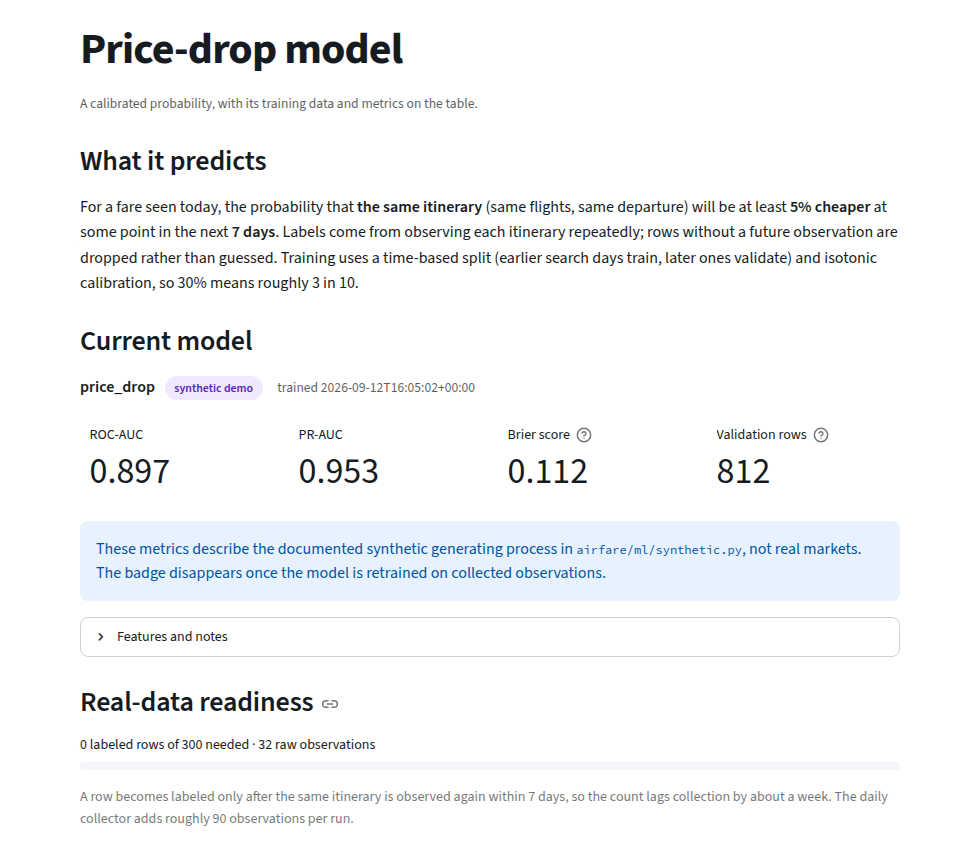
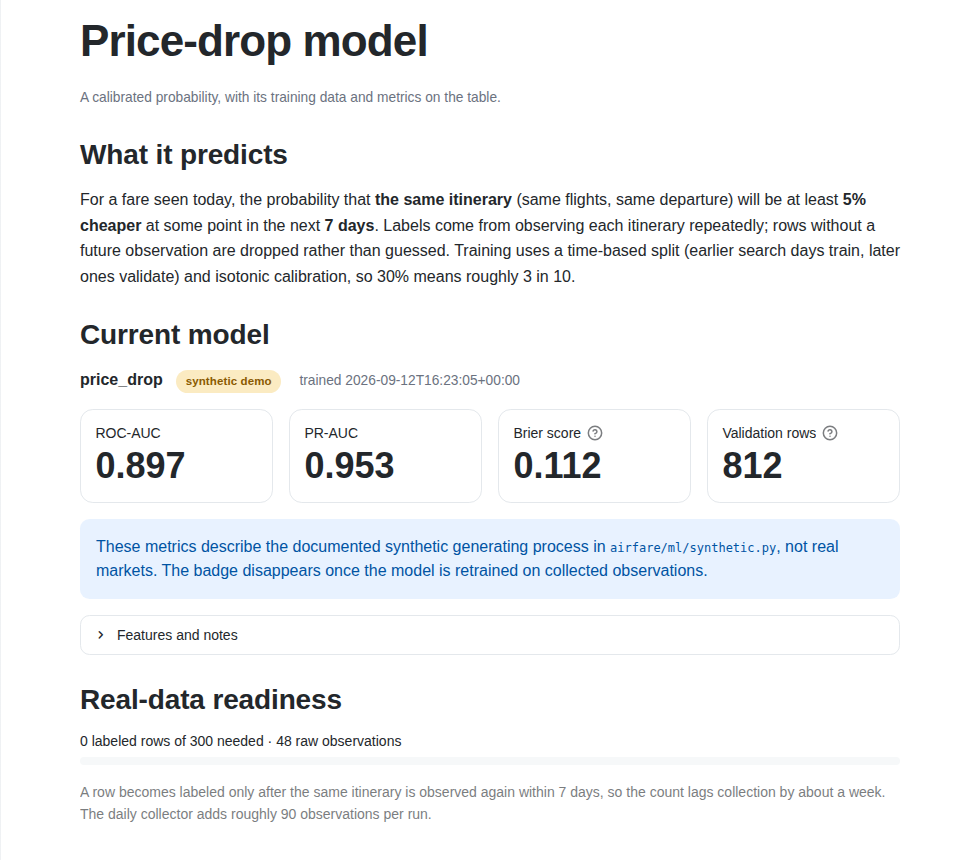
Theme pass: Lato, teal/gold palette, hero, hexagon mark
Streamlit theme config (custom font faces, primary teal, radius, borders),
hero block on Search with a hexagon motif, chips and charts moved to the
teal/gold palette, metric cards, refreshed README screenshots.

diff --git a/airfare/ui/components.py b/airfare/ui/components.py
@@ -11,37 +11,65 @@ import streamlit as st
 from airfare.domain.models import Itinerary, ScoredOffer
 from airfare.ui import format as fmt
 
-CSS = """
+TEAL = "#1A7F8E"
+TEAL_DARK = "#146673"
+GOLD = "#F2B233"
+GOLD_SOFT = "#FBEBC2"
+INK = "#23272B"
+SLATE = "#6B7280"
+LINE = "#E4E8EC"
+
+CSS = f"""
 <style>
-  .block-container { padding-top: 1.6rem; padding-bottom: 3rem; max-width: 1180px; }
-  h1 { letter-spacing: -0.02em; }
-  .afm-eyebrow { font-size: .78rem; text-transform: uppercase; letter-spacing: .08em; opacity: .65; }
-  .afm-price { font-size: 1.75rem; font-weight: 700; line-height: 1.1; }
-  .afm-muted { opacity: .7; font-size: .85rem; }
-  .afm-chip { display: inline-block; padding: .12rem .55rem; border-radius: 999px; font-size: .74rem;
-              font-weight: 600; margin-right: .3rem; border: 1px solid transparent; }
-  .afm-chip.rec  { background: rgba(15,98,254,.12); color: #0F62FE; }
-  .afm-chip.low  { background: rgba(16,185,129,.14); color: #047857; }
-  .afm-chip.typical { background: rgba(107,114,128,.14); color: #374151; }
-  .afm-chip.high { background: rgba(245,158,11,.16); color: #92400E; }
-  .afm-chip.warn { background: rgba(245,158,11,.16); color: #92400E; }
-  .afm-chip.demo { background: rgba(139,92,246,.14); color: #5B21B6; }
-  .afm-chip.live { background: rgba(16,185,129,.14); color: #047857; }
-  .afm-seg { font-variant-numeric: tabular-nums; }
-  div[data-testid="stMetric"] { padding: .4rem .6rem; border-radius: 10px; }
-  @media (prefers-color-scheme: dark) {
-    .afm-chip.typical { color: #D1D5DB; }
-    .afm-chip.low { color: #6EE7B7; }
-    .afm-chip.high, .afm-chip.warn { color: #FCD34D; }
-    .afm-chip.demo { color: #C4B5FD; }
-    .afm-chip.rec { color: #93C5FD; }
-  }
+  .block-container {{ padding-top: 1.2rem; padding-bottom: 4rem; max-width: 1180px; }}
+  h1, h2, h3 {{ letter-spacing: -0.02em; color: {INK}; }}
+  h1 {{ font-weight: 900; }}
+  .afm-hero {{ display: flex; align-items: center; gap: 2rem; padding: 1.2rem 0 1.6rem 0; }}
+  .afm-hero h1 {{ font-size: 2.6rem; line-height: 1.05; margin: 0 0 .6rem 0; }}
+  .afm-hero p {{ font-size: 1.05rem; color: {SLATE}; max-width: 34rem; margin: 0; }}
+  .afm-hero .afm-hex {{ margin-left: auto; flex: 0 0 auto; }}
+  .afm-eyebrow {{ font-size: .76rem; text-transform: uppercase; letter-spacing: .1em; color: {TEAL}; font-weight: 700; }}
+  .afm-price {{ font-size: 1.8rem; font-weight: 900; line-height: 1.1; color: {INK}; }}
+  .afm-muted {{ color: {SLATE}; font-size: .86rem; }}
+  .afm-chip {{ display: inline-block; padding: .14rem .6rem; border-radius: 999px; font-size: .72rem;
+              font-weight: 700; margin-right: .3rem; letter-spacing: .01em; }}
+  .afm-chip.rec     {{ background: {TEAL}; color: #fff; }}
+  .afm-chip.live    {{ background: rgba(26,127,142,.12); color: {TEAL_DARK}; }}
+  .afm-chip.low     {{ background: rgba(26,127,142,.12); color: {TEAL_DARK}; }}
+  .afm-chip.typical {{ background: #EEF1F4; color: #4B5563; }}
+  .afm-chip.high    {{ background: {GOLD_SOFT}; color: #8A5A00; }}
+  .afm-chip.warn    {{ background: {GOLD_SOFT}; color: #8A5A00; }}
+  .afm-chip.demo    {{ background: {GOLD_SOFT}; color: #8A5A00; }}
+  .afm-chip.model   {{ background: rgba(26,127,142,.12); color: {TEAL_DARK}; }}
+  .afm-seg {{ font-variant-numeric: tabular-nums; }}
+  div[data-testid="stMetric"] {{ background: #FFFFFF; border: 1px solid {LINE}; border-radius: .8rem; padding: .7rem .9rem; }}
+  div[data-testid="stMetricLabel"] {{ color: {SLATE}; }}
+  div[data-testid="stMetricValue"] {{ font-weight: 900; }}
+  section[data-testid="stSidebar"] .afm-brand {{ font-weight: 900; font-size: 1.15rem; letter-spacing: -0.02em; }}
+  .afm-hexrow {{ display:flex; gap:.35rem; margin:.4rem 0 .8rem 0; }}
 </style>
+"""
+
+HEX_MARK = f"""
+<svg width="190" height="170" viewBox="0 0 190 170" fill="none" xmlns="http://www.w3.org/2000/svg" aria-hidden="true">
+  <polygon points="60,4 108,4 132,46 108,88 60,88 36,46" fill="{GOLD}" opacity=".95"/>
+  <polygon points="112,50 160,50 184,92 160,134 112,134 88,92" fill="{TEAL}" opacity=".9"/>
+  <polygon points="36,90 84,90 108,132 84,174 36,174 12,132" fill="{GOLD_SOFT}"/>
+  <polygon points="8,20 34,20 47,42 34,64 8,64 -5,42" fill="rgba(26,127,142,.18)"/>
+</svg>
 """
 
 
 def inject_css() -> None:
     st.markdown(CSS, unsafe_allow_html=True)
+
+
+def hero(title: str, lead: str) -> None:
+    st.markdown(
+        f"<div class='afm-hero'><div><h1>{title}</h1><p>{lead}</p></div>"
+        f"<div class='afm-hex'>{HEX_MARK}</div></div>",
+        unsafe_allow_html=True,
+    )
 
 
 def chip(text: str, kind: str = "typical") -> str:
@@ -180,7 +208,7 @@ def trend_chart(trend: pd.DataFrame, height: int = 260) -> alt.Chart | None:
             color=alt.Color(
                 "series:N",
                 title=None,
-                scale=alt.Scale(range=["#0F62FE", "#9CA3AF", "#10B981"]),
+                scale=alt.Scale(range=[TEAL, "#B8C0C8", GOLD]),
                 legend=alt.Legend(orient="top"),
             ),
             tooltip=[
@@ -201,7 +229,7 @@ def fare_calendar_chart(by_departure: pd.DataFrame, height: int = 220) -> alt.Ch
     df["departure_date"] = pd.to_datetime(df["departure_date"])
     return (
         alt.Chart(df)
-        .mark_bar(color="#0F62FE", size=14, cornerRadiusTopLeft=3, cornerRadiusTopRight=3)
+        .mark_bar(color=TEAL, size=14, cornerRadiusTopLeft=3, cornerRadiusTopRight=3)
         .encode(
             x=alt.X("departure_date:T", title="Departure date", axis=alt.Axis(format="%b %d")),
             y=alt.Y("min_price_usd:Q", title="Cheapest observed (USD)"),
@@ -221,7 +249,7 @@ def price_histogram(
     df = pd.DataFrame({"usd": prices})
     base = (
         alt.Chart(df)
-        .mark_bar(color="#9CA3AF", opacity=0.8)
+        .mark_bar(color="#B8C0C8", opacity=0.9)
         .encode(
             x=alt.X("usd:Q", bin=alt.Bin(maxbins=25), title="Observed fare (USD)"),
             y=alt.Y("count()", title="Observations"),
@@ -232,7 +260,7 @@ def price_histogram(
         return base
     rule = (
         alt.Chart(pd.DataFrame({"usd": [current]}))
-        .mark_rule(color="#0F62FE", strokeWidth=2)
+        .mark_rule(color=TEAL, strokeWidth=2)
         .encode(x="usd:Q")
     )
     return base + rule

diff --git a/airfare/ui/views/search.py b/airfare/ui/views/search.py
@@ -30,7 +30,7 @@ def _search_form(providers: list[ProviderName]) -> tuple[bool, dict[str, object]
     labels = {a.label: a.iata for a in airport_list}
     today = date.today()
     with st.form("search", border=True):
-        c1, c2, c3 = st.columns([1.5, 1.5, 1])
+        c1, c2, c3 = st.columns([1.5, 1.5, 1.15])
         origin = c1.selectbox("From", list(labels), index=None, placeholder="City, airport or code")
         dest = c2.selectbox("To", list(labels), index=None, placeholder="City, airport or code")
         trip = c3.radio("Trip", ["Round trip", "One way"], horizontal=True)
@@ -169,7 +169,7 @@ def _render_results(result: SearchResult) -> None:
     k2.metric("Cheapest", fmt.usd(cheapest.price.usd) if cheapest else "—")
     k3.metric("Median", fmt.usd(float(pd.Series(priced).median())) if priced else "—")
     if rec and predictor and rec.offer.price.usd is not None:
-        k4.metric("Drop chance · recommended", f"{predictor.probability(rec.offer):.0%}")
+        k4.metric("Drop chance (best)", f"{predictor.probability(rec.offer):.0%}")
         k4.caption(
             "synthetic-data demo model"
             if predictor.card.is_synthetic
@@ -235,10 +235,10 @@ def render() -> None:
         if settings.live_configured
         else ui.chip("offline mode", "typical")
     )
-    ui.page_header(
-        "Airfare Marketplace",
-        "Transparent fares: one price basis, visible history, an honest signal.",
-        [status],
+    ui.hero(
+        "Know when a fare is<br>actually a good fare.",
+        "Live and demo airfares on one price basis, with the route's history and a calibrated "
+        "chance of a drop, so the decision to book is yours, with the evidence in view. " + status,
     )
 
     submitted, form = _search_form(providers)

diff --git a/tests/test_ui_smoke.py b/tests/test_ui_smoke.py
@@ -51,7 +51,7 @@ def _seed_history(db: Path) -> None:
 def test_search_page_end_to_end(env: Path) -> None:
     at = AppTest.from_file(str(APP), default_timeout=60).run()
     assert not at.exception
-    assert at.title[0].value.endswith("Airfare Marketplace")
+    assert any("Know when a fare" in md.value for md in at.markdown)
 
     labels = at.selectbox[0].options
     at.selectbox[0].select(next(o for o in labels if o.startswith("SJU")))

diff --git a/airfare/ui/app.py b/airfare/ui/app.py
@@ -23,7 +23,7 @@ bootstrap.configure_logging()
 ui.inject_css()
 
 with st.sidebar:
-    st.markdown("### ✈ Airfare Marketplace")
+    st.markdown("<div class='afm-brand'>✈ Airfare Marketplace</div>", unsafe_allow_html=True)
     settings = bootstrap.settings()
     st.caption(
         "Live search: " + ("on (SerpApi)" if settings.live_configured else "off — demo & replay")
